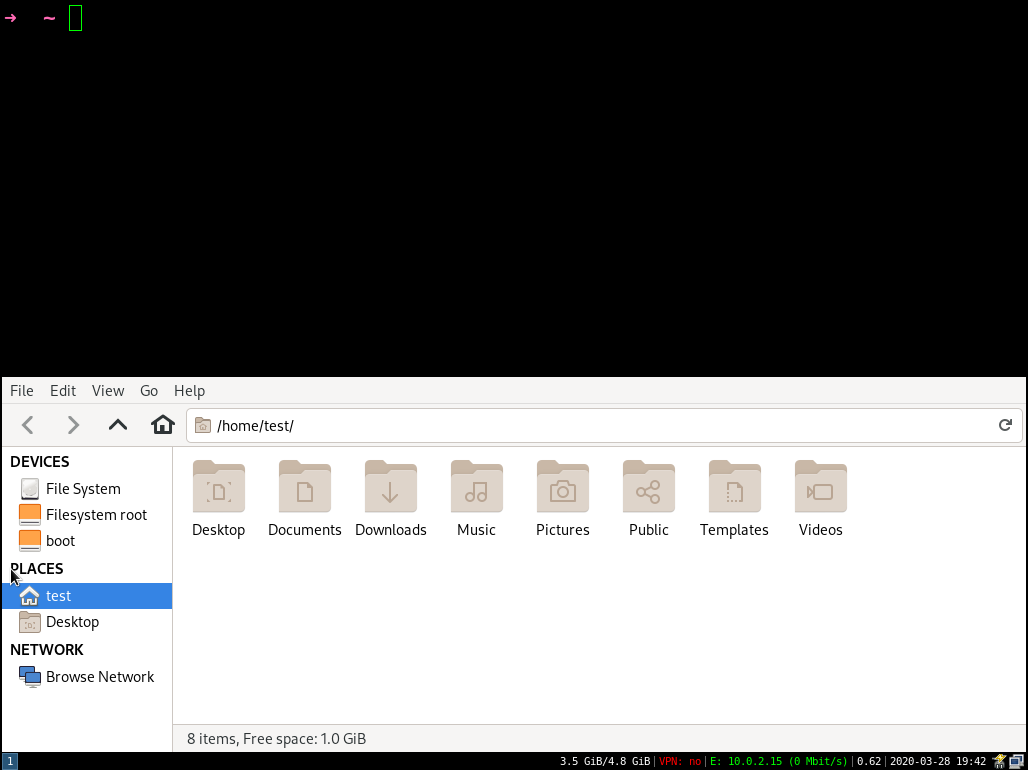
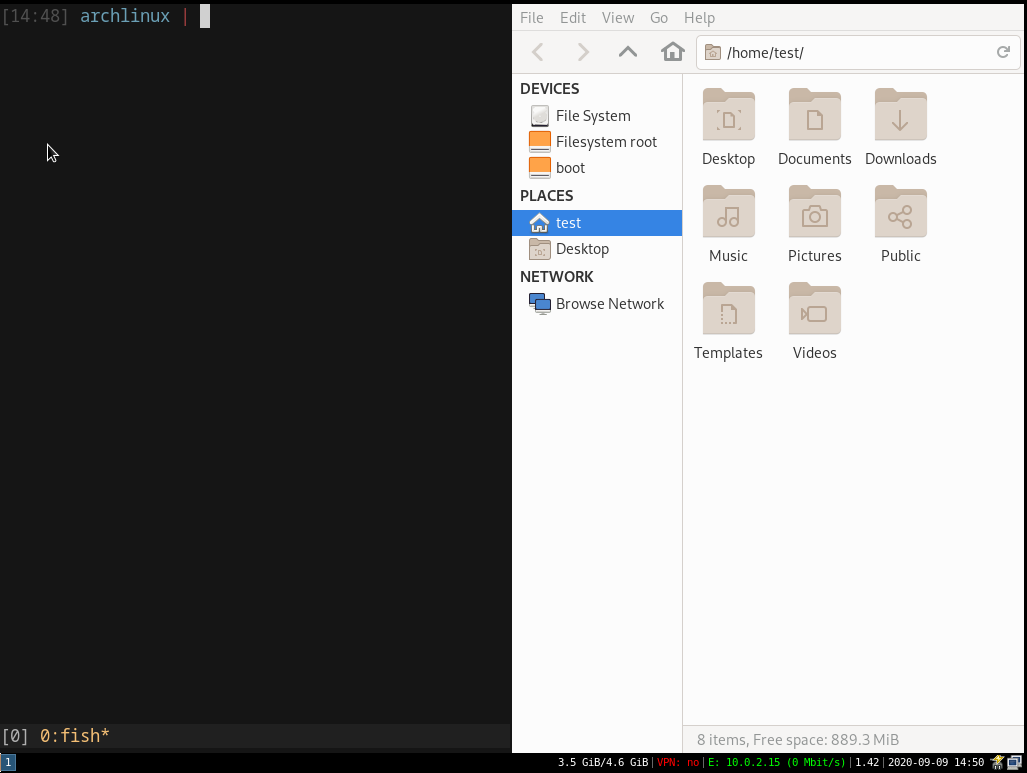
Update screenshot and readme

diff --git a/README.md b/README.md
@@ -49,7 +49,16 @@ Provide ALMA the preset directory, specifying the `ALMA_USER` and `TIMEZONE` env
 i.e. for an image to use with qemu:
 
 ```bash
-ALMA_USER="test" TIMEZONE="Europe/Madrid" sudo -E alma create --presets ./arch-i3-usb/preset --image 5GiB image_name.img
+$ ALMA_USER="test" TIMEZONE="Europe/Madrid" sudo -E alma create --presets ./arch-i3-usb/preset --image 5GiB image_name.img
+```
+
+This can then be run in qemu via ALMA:
+
+```bash
+$ sudo losetup -f ./image_name.img
+$ sudo losetup -j ./image_name.img
+/dev/loop0: [2070]:6865917 (/path/to/image/image_name.img)
+$ sudo alma qemu /dev/loop0
 ```
 
 The `$ALMA_USER` and `$TIMEZONE` environment variables must be pased to ALMA. You will be asked to set the user password and root password during installation.
@@ -59,7 +68,7 @@ Full disk encryption can be enabled with the `-e` option, see the [ALMA](https:/
 i.e. to install on a target USB with full disk encryption (__this will wipe the target USB drive__):
 
 ```bash
-ALMA_USER="test" TIMEZONE="Europe/Madrid" sudo -E alma create -e --presets ./arch-i3-usb/preset /dev/disk/by-id/usb-Generic_USB_Flash_Disk-0:0
+$ ALMA_USER="test" TIMEZONE="Europe/Madrid" sudo -E alma create -e --presets ./arch-i3-usb/preset /dev/disk/by-id/usb-Generic_USB_Flash_Disk-0:0
 ```
 
 The `preset/` directory contains a basic installation which will fit on an
@@ -69,6 +78,9 @@ use the additional preset files in the `additional/` directory:
 ```bash
 $ cp -rf additional/* preset/
 ```
+
+The additional presets include many more useful utilities, and adds the
+i3status-rust bar.
 
 ## What is included
 ### User
